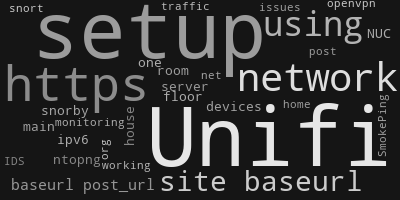
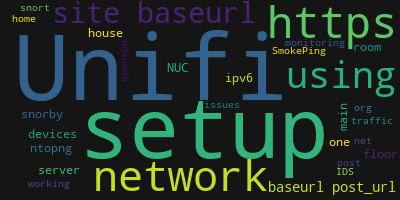
change word cloud to have colors

diff --git a/_bld/gencloud.py b/_bld/gencloud.py
@@ -23,7 +23,8 @@ class Generator:
             outname = os.path.join( self.args.outdir, os.path.basename( name )[:-len('md')] + "png" )
             fp = open( name, 'r' )
             text = fp.read()
-            wordcloud = WordCloud( max_words = 30, background_color = (21,21,21), color_func=grey_color_func).generate( text )
+            #wordcloud = WordCloud( max_words = 30, background_color = (21,21,21), color_func=grey_color_func).generate( text )
+            wordcloud = WordCloud( max_words = 30, background_color = (21,21,21)).generate( text )
             #wordcloud.recolor( color_func=grey_color_func, random_state=3)
             print( "{} -> {}".format( name, outname ) )
             wordcloud.to_file( outname )
